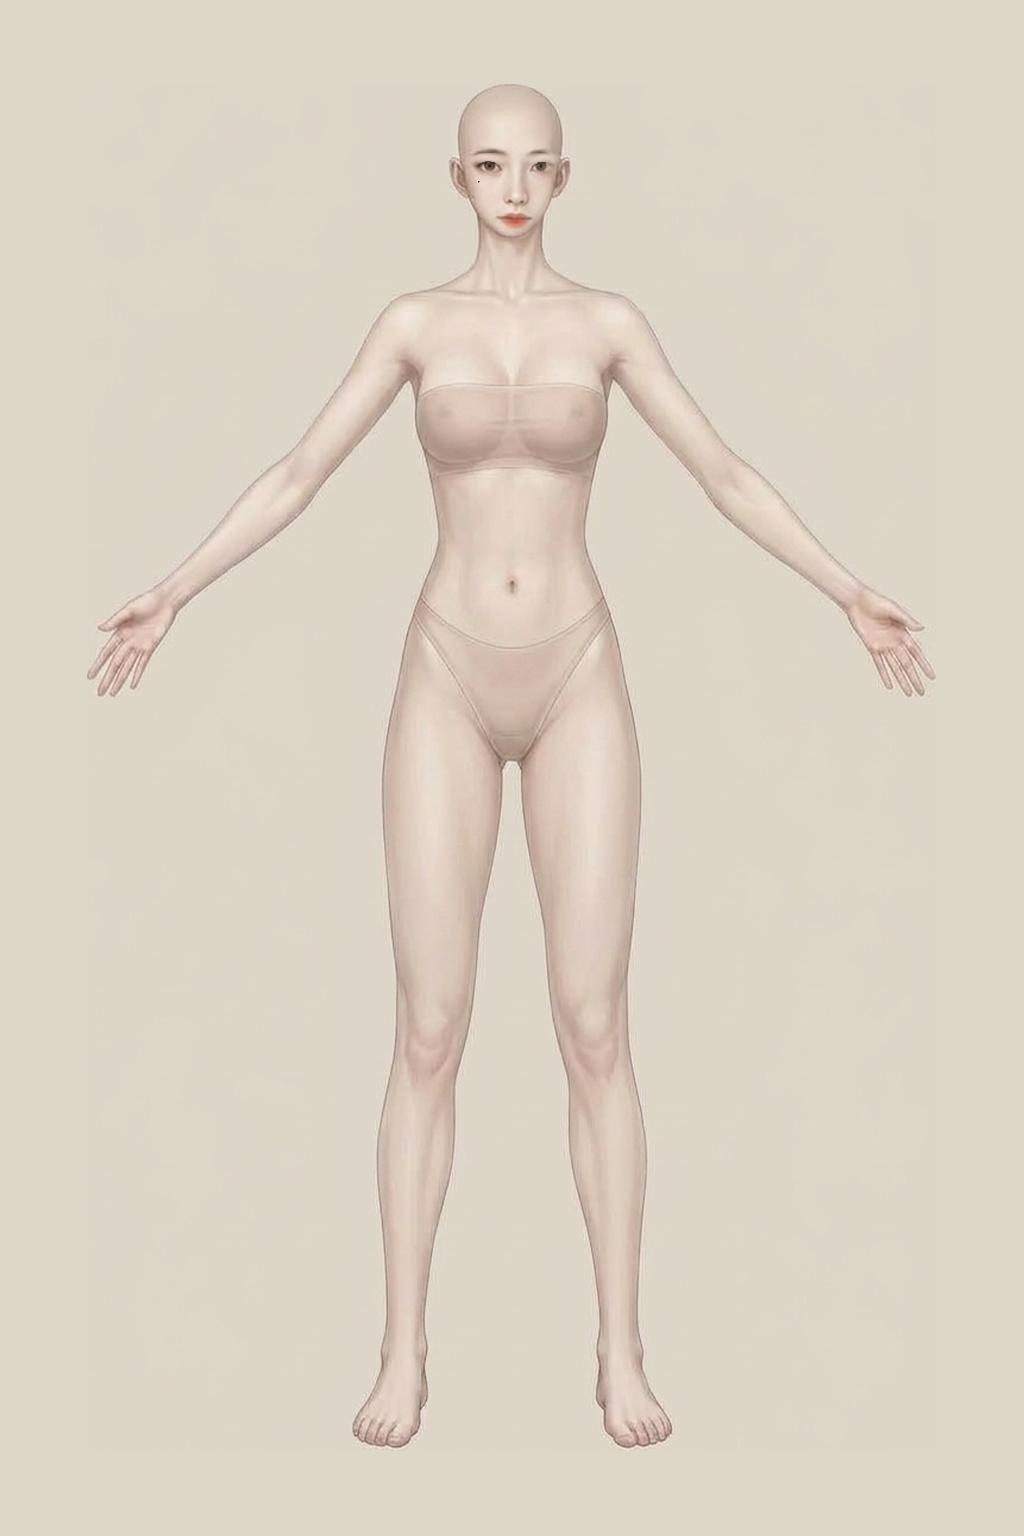
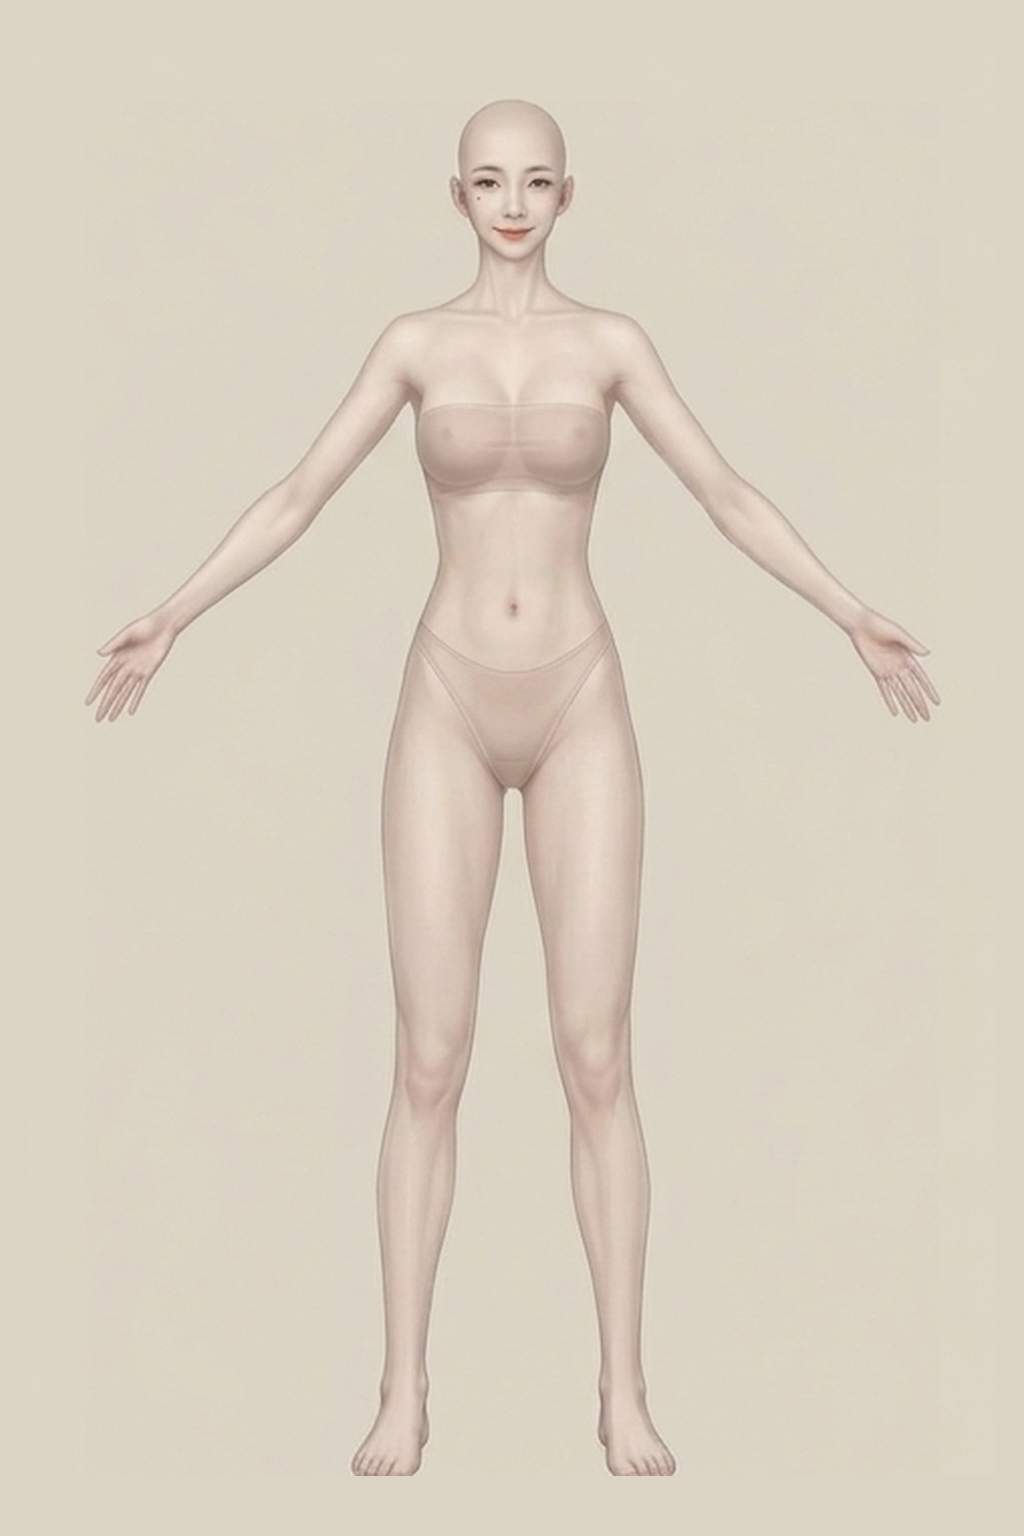
assets(model3d): npc_zhujue__ch00_f_bald_base_body 更新李一桐素体参考并按指示清理临时三视图

diff --git a/tools/model3d/tripo_web.js b/tools/model3d/tripo_web.js
@@ -16,13 +16,13 @@
 window.__t = {
   ver: '2026-10-04',
   // 生成参数：HD Model · H3.1 Best Quality、Ultra Mesh（geometry_quality detailed）、8K（texture_quality extreme）、PBR、去光照、
-  // Triangle、面数上限 10 万、Private。键的顺序照页面（d0-kdlow）：image_to_model 在 texture_quality 后多一个 enable_image_autofix。
-  GEN: { face_limit: 100000, quad: false, visibility: 'private', model_version: 'v3.1-20260211', generate_parts: false, smart_poly: false,
+  // Triangle、面数上限 20 万、Private。键的顺序照页面（d0-kdlow）：image_to_model 在 texture_quality 后多一个 enable_image_autofix。
+  GEN: { face_limit: 200000, quad: false, visibility: 'private', model_version: 'v3.1-20260211', generate_parts: false, smart_poly: false,
     texture: true, delight: true, pbr: true, texture_alignment: 'original_image', texture_quality: 'extreme' },
   GEOMETRY: 'detailed',
   // 生成面板上对应的设置（走按钮生成时核对；走 API 时请求体不看面板）
   UI: { tab: 'high_detail', hdVersion: 'v3.1-20260211', geometryQuality: 'detailed', texture: true, textureQuality: 'extreme', pbr: true,
-    delight: true, quad: 'triangle', faceLimit: 100000, privateMode: 'private', generateParts: false, enableImageAutofix: false, smartPoly: false },
+    delight: true, quad: 'triangle', faceLimit: 200000, privateMode: 'private', generateParts: false, enableImageAutofix: true, smartPoly: false },
   RIG: { model_version: 'v3.0-20260909', rig_type: 'biped', spec: 'mixamo' },  // Humanoid + Mixamo；页面绑骨面数上限 10 万
   COST: { generate: 65, rig: 20, retarget: 0, export: 0, freeRetry: 0, restore: 0 },
   sleep: (ms) => new Promise((r) => setTimeout(r, ms)),
@@ -107,7 +107,7 @@ window.__t = {
     const ready = () => { const st = this.gst(); return st && (this.inputs().length || st.imageToModel || (st.multiViewImages || []).some(Boolean)); };
     if (!(await this.waitFor(ready, 15000))) return { ok: false, why: 'generate panel not ready', ...this.where() };
     const st = this.gst();
-    if (st.tab !== 'high_detail') return { ok: false, why: 'tab is ' + st.tab + '（先在面板上切到 HD Model）', ...this.where() };
+    if (st.tab !== 'high_detail') { st.tab = 'high_detail'; await this.waitFor(() => this.gst().tab === 'high_detail', 3000); await this.sleep(500); }
     if (st.mode !== mode) { st.mode = mode; await this.waitFor(() => this.gst().mode === mode, 3000); await this.sleep(600); }
     return { ok: this.gst().mode === mode, inputs: this.inputs().length, ...this.where() };
   },
@@ -136,7 +136,7 @@ window.__t = {
     inp.dispatchEvent(new Event('input', { bubbles: true })); inp.dispatchEvent(new Event('change', { bubbles: true }));
     const ok = await this.waitFor(() => !busy() && get() && get().key, ms, 500);
     const o = get();
-    return { ok: !!ok && (!o.image_audit_result || o.image_audit_result === 'pass'), name, size: file.size, slot: multi ? this.VIEWS[slot] : null,
+    return { ok: !!ok && !!(o && o.key), name, size: file.size, slot: multi ? this.VIEWS[slot] : null,
       key: o && o.key ? o.key.split('/').slice(-3).join('/') : null, audit: o && o.image_audit_result, uploading: !!busy() };
   },
   clearUpload() {
@@ -154,10 +154,10 @@ window.__t = {
   img: (o) => (o && o.key ? { bucket: o.bucket, image_audit_result: o.image_audit_result, image_source: o.image_source, key: o.key } : null),
   genBody(mode = this.gst().mode) {
     const st = this.gst(), G = this.GEN;
-    const b = { face_limit: G.face_limit, quad: G.quad, visibility: G.visibility, model_version: G.model_version, generate_parts: G.generate_parts, smart_poly: G.smart_poly,
+    const b = { face_limit: st.faceLimit || G.face_limit, quad: G.quad, visibility: G.visibility, model_version: G.model_version, generate_parts: G.generate_parts, smart_poly: G.smart_poly,
       texture: G.texture, delight: G.delight, pbr: G.pbr, texture_alignment: G.texture_alignment, texture_quality: G.texture_quality };
-    if (mode === 'imageToModel') { const i = this.img(st.imageToModel); if (!i) return null; return { ...b, enable_image_autofix: false, geometry_quality: this.GEOMETRY, image: i }; }
-    if (mode === 'multiView') { const a = (st.multiViewImages || []).map((x) => this.img(x)); if (!a[0] || a.filter(Boolean).length < 2) return null; return { ...b, geometry_quality: this.GEOMETRY, image: a }; }
+    if (mode === 'imageToModel') { const i = this.img(st.imageToModel); if (!i) return null; return { ...b, enable_image_autofix: st.enableImageAutofix ?? true, geometry_quality: this.GEOMETRY, image: i }; }
+    if (mode === 'multiView') { const a = (st.multiViewImages || []).map((x) => this.img(x)); if (!a[0] || a.filter(Boolean).length < 2) return null; return { ...b, enable_image_autofix: st.enableImageAutofix ?? true, geometry_quality: this.GEOMETRY, image: a }; }
     return null;
   },
   // 生成（65 点）。默认 dry；{ go: true } 才真发。成功后可 { open: true } 让页面跳到这个项目看进度。
@@ -167,7 +167,7 @@ window.__t = {
     if (st.imageToModelUploading || (st.multiViewUploading || []).some(Boolean)) return { ok: false, why: 'upload in progress' };
     const body = this.genBody(mode); if (!body) return { ok: false, why: 'no uploaded image', mode };
     const audit = [].concat(body.image).filter(Boolean).map((i) => i.image_audit_result);
-    if (audit.some((a) => a && a !== 'pass')) return { ok: false, why: 'image audit ' + audit.join(',') };
+    if (audit.some((a) => a && a !== 'pass')) this.log('audit-notice', { audit, hint: 'proceeding with user confirmation' });
     const path = mode === 'multiView' ? '/v2/studio/operation/multiview_to_model' : '/v2/studio/operation/image_to_model';
     if (!go) return { ok: true, dry: true, path, cost: this.COST.generate, body };
     const w0 = await this.credits(); if (!(w0 >= this.COST.generate)) return { ok: false, why: 'credits ' + w0 };
